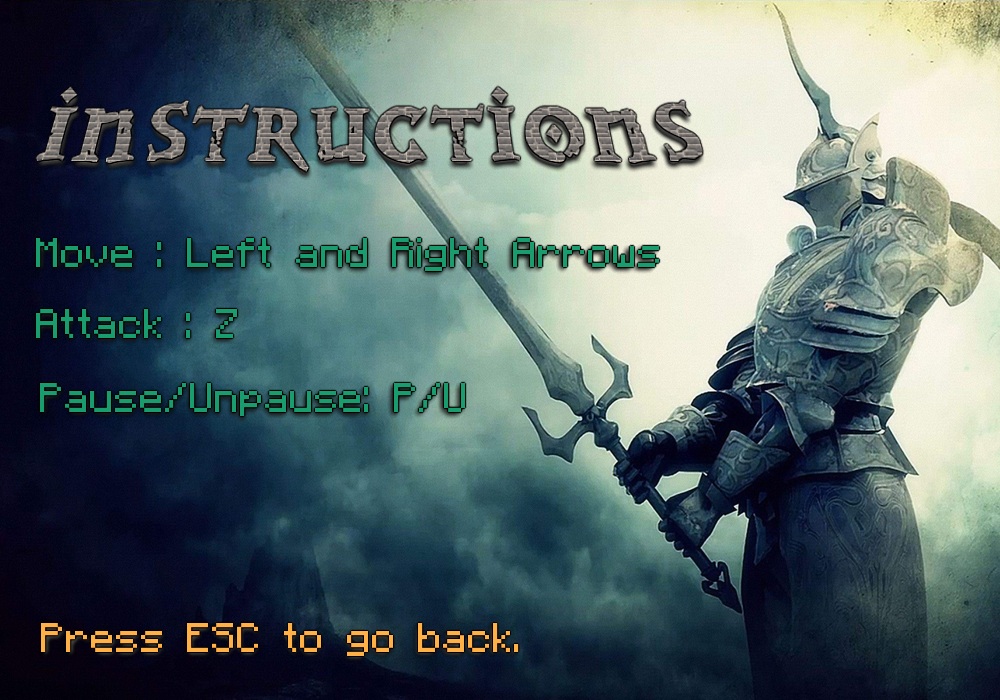
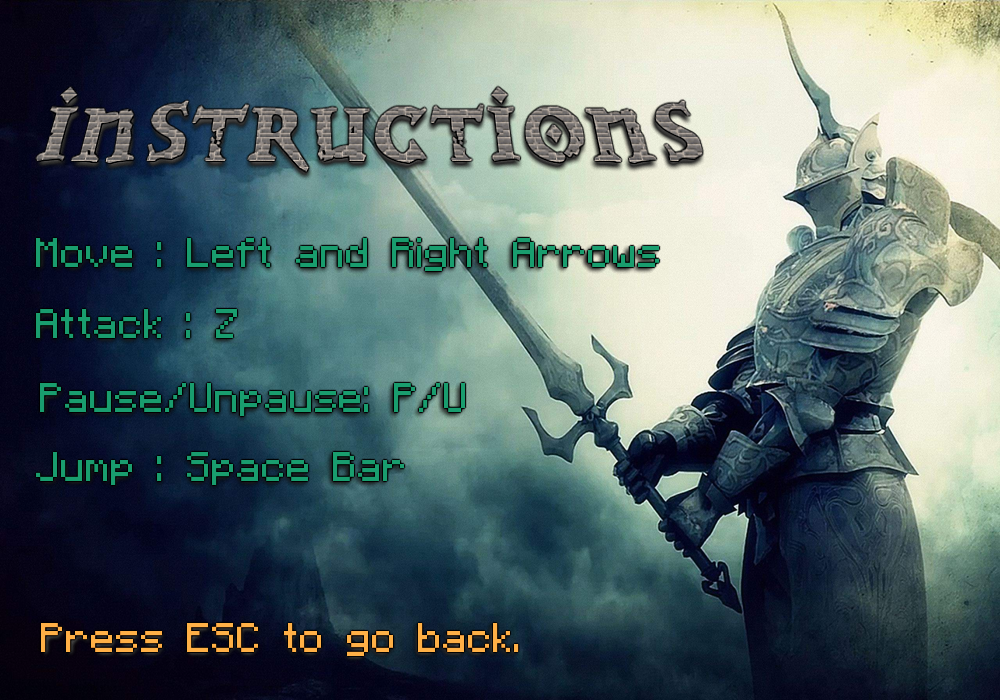
Added death anim for enemies and other small things
- Death animation for enemies
- Tab icon
- 250ms delay between knight attacks
- Jump to instructions page
- Final time lasted after death on game over screen

Changed region(s): [[0.031, 0.63, 0.403, 0.69]]

diff --git a/main.js b/main.js
@@ -40,6 +40,9 @@ pause.src = "images/pause.png";
 var isOnInstr = false;
 //game over
 var isGameover = false;
+// final time and final score
+var finalTime = 0;
+var finalScore = 0;
 
 
 var death = { //seperate object made for death for reusability of the animation
@@ -78,6 +81,7 @@ var knight = {
     midAir: false,
     jumping: false,
     isAttacking: false,
+    lastAttack: 250,
     attackTimer: 0,
     attackFrame: 0,
     attackNumFrames: 5,
@@ -113,6 +117,7 @@ var knight = {
 
         // 	ATTACKING ANIMATION **************************************************************************
         // Update hero animation
+        this.lastAttack += elapsed;
         if (this.isAttacking) {
             //walking===true so animation continues to completion of current cycle
             //so that frame isn't frozen midcycle by still condition
@@ -125,6 +130,7 @@ var knight = {
                 if (this.attackFrame >= this.attackNumFrames) {
                     // We've reached the end of the animation frames; rewind
                     this.attackFrame = 0;
+                    this.lastAttack = 0;
                     this.isAttacking = false;
                 }
             }
@@ -133,8 +139,9 @@ var knight = {
             for (var i = 0; i < enemies.length; i++) {
                 if (enemies[i].alive) {
                     var distance = enemies[i].x - this.x;
-                    if (-36 < distance && distance < 65) {
-                        enemies[i].alive = false;
+                    if (-36 < distance && distance < 65 && enemies[i].health>0) {
+                        // only deduct enemy health if in range and if enemy health isn't 0
+                        enemies[i].health -= 1;
                     }
                 }
             }
@@ -154,7 +161,6 @@ var knight = {
         if (this.health === 0) {
             death.timer += elapsed;
             if (death.timer >= this.animDelay) {
-                console.log(death.deathFrame);
                 // Enough time has passed to update the animation frame
                 death.timer = 0; // Reset the animation timer
                 ++death.deathFrame;
@@ -162,6 +168,7 @@ var knight = {
                 if (death.deathFrame >= death.numFrames) {
                     // We've reached the end of the animation frames; rewind
                     this.isAlive = false;
+                    death.deathFrame = 0;
                 }
             }
         }
@@ -229,7 +236,6 @@ var knight = {
         }
 
         if (this.imageReady) {
-            //console.log(this.midAir);
             var spriteX, effectiveX = this.x,
                 effectiveWidth = this.width;
             if (this.isHurt) {
@@ -352,9 +358,26 @@ var enemy = {
     update: function (elapsed) {
         var distanceBetween = this.x - knight.x;
         this.lastAttack += elapsed;
+        // ENEMY DEATH ANIMATION *************************************************************************************
+        if (this.health === 0) { 
+            death.timer += elapsed;
+            if (death.timer >= this.animDelay) {
+                // Enough time has passed to update the animation frame
+                death.timer = 0; // Reset the animation timer
+                ++death.deathFrame;
+
+                if (death.deathFrame >= death.numFrames) {
+                    // We've reached the end of the animation frames; rewind
+                    this.alive = false;
+                    death.deathFrame = 0;   
+                }
+            }
+        }
+
+        // ENEMY MOVEMENT *********************************************************************************************
         //If it > -35 that means that this enemy is being drawn next to the knight on the left
         //If it < 64 that means that this enemy is being drawn next to the kniht on the right
-        if (distanceBetween < -35 || distanceBetween > 64) { //If not in attacking range then move closer
+        else if (distanceBetween < -35 || distanceBetween > 64) { //If not in attacking range then move closer
             this.inAttackingRange = false;
             this.walkTimer += elapsed;
             if (this.walkTimer >= this.animDelay) {
@@ -377,6 +400,7 @@ var enemy = {
                 this.x -= distance;
                 this.walkSet = 1;
             }
+        // ENEMY ATTACK *************************************************************************************************
         } else {
             this.walkFrame = 0; //If close enough set the frame to the beginning
             this.inAttackingRange = true;
@@ -387,7 +411,7 @@ var enemy = {
                     this.attackTimer = 0;
                     this.attackFrame++;
 
-                    if (this.attackFrame >= this.attackNumFrames) { //Reset to the beginning frame
+                    if (this.attackFrame >= this.attackNumFrames && knight.health > 0) { //Reset to the beginning frame
                         this.attackFrame = 0;
                         knight.health -= 1;
                         knight.isHurt = true;
@@ -400,13 +424,24 @@ var enemy = {
     },
     draw: function (context) {
         if (this.imageReady) {
-            var spriteX;
-            if (!this.inAttackingRange || !knight.onGround)
-                spriteX = (this.walkSet * (this.width * this.walkNumFrames)) + (this.walkFrame * this.width);
-            else
-                spriteX = (2 * this.walkNumFrames * this.width) + (this.attackSet * 70) + (this.attackFrame * this.width);
+            if (this.health > 0){ // if enemy is alive
+                var spriteX;
+                if (!this.inAttackingRange || !knight.onGround)
+                    spriteX = (this.walkSet * (this.width * this.walkNumFrames)) + (this.walkFrame * this.width);
+                else
+                    spriteX = (2 * this.walkNumFrames * this.width) + (this.attackSet * 70) + (this.attackFrame * this.width);
 
-            context.drawImage(this.image, spriteX, 0, this.width, this.height, this.x, this.y, this.width, this.height);
+                context.drawImage(this.image, spriteX, 0, this.width, this.height, this.x, this.y, this.width, this.height);
+            }
+            else if (this.health === 0) { // if enemy health = 0 so death animation
+                spriteX = (64 * death.deathFrame);
+
+                context.drawImage(
+                    death.image,
+                    spriteX, 0, 64, 64,
+                    this.x, this.y, this.width, this.height
+                );
+            } 
         } else {
             context.fillStyle = "green";
             context.fillRect(this.x, this.y, this.width, this.height);
@@ -439,11 +474,8 @@ var boss = {
     lastAttack: 500,
     update: function (elapsed) {
         if (knight.x > this.x) {
-            //console.log("Knight is on the right");
             this.x += Math.round(this.speed * (elapsed / 1000));
-            console.log(knight.x, this.x)
         } else if (knight.x < this.x) { //knight.x < this.x
-            //console.log("Knight is on the left");
             this.x -= Math.round(this.speed * (elapsed / 1000));
         }
         var distance = Math.abs(this.x - knight.x);
@@ -495,9 +527,9 @@ var handleInput = function () {
 
     }
 
-    if (90 in keysDown && knight.onGround) {
+    if (90 in keysDown && knight.onGround && knight.lastAttack>=250) {
         knight.isAttacking = true;
-        knight.still = false;
+        // knight.still = false;
     }
 
     if (80 in keysDown) { // P for pause
@@ -515,7 +547,10 @@ var handleInput = function () {
 
 var update = function (elapsed) {
 
+    var timerSeconds = (Math.floor(timer / 1000)); // must be declared before finalTime
+
     if (!knight.isAlive) {
+        finalTime = timerSeconds;
         isGameRunning = false; //knight dead so stop game
         isGameover = true;
 
@@ -545,7 +580,6 @@ var update = function (elapsed) {
 
     // TIMER FRAME UPDATE***********************************************************
 
-    var timerSeconds = (Math.floor(timer / 1000));
     var timerNumDigits = Math.ceil(Math.log(timerSeconds + 1) / Math.LN10); //to get the "length" of the timerSeconds variable
 
     // each digit value is stored in a separate variable of the timer object
@@ -582,12 +616,14 @@ var render = function () {
 
     // Timer image rendering
     ctx.font = "30px Impact";
+    ctx.fillStyle = "white";
     ctx.fillText(timerDigits.hundreds.toString(), (((canvas.width / 2) - 30)), 40);
     ctx.fillText(timerDigits.tens.toString(), (((canvas.width / 2) - 30) + 20), 40);
     ctx.fillText(timerDigits.ones.toString(), (((canvas.width / 2) - 30) + 40), 40);
 
     for (var i = 0; i < enemies.length; i++) {
-        if (enemies[i].alive) enemies[i].draw(ctx);
+        if (enemies[i].alive) 
+            enemies[i].draw(ctx);
     }
 
     if (boss.available) {
@@ -678,10 +714,15 @@ var pauseScreen = function () {
 
 function gameover() {
     var gameoverScreen = new Image();
+    console.log(finalTime);
 
     gameoverScreen.src = "images/gameover_test.png";
 
     ctx.drawImage(gameoverScreen, 0, 0, 1000, 700);
+    ctx.fillStyle = "black";
+    ctx.fillText("You Lasted ", ((canvas.width / 2) - 150), 50);
+    ctx.fillText(finalTime.toString(), (((canvas.width / 2) - 30) + 20), 50);
+    ctx.fillText(" Seconds", ((canvas.width / 2) + 20), 50);
 
     if (27 in keysDown) //Esc to go back to main menu
         isGameover = false; // enter the 'else' in order to bring up main menu

diff --git a/index.html b/index.html
@@ -4,6 +4,7 @@
 	<meta charset="UTF-8">
 	<title>NIGHT KNIGHT</title>
 	<link rel="stylesheet" href="main.css">
+	<link rel="shortcut icon" href="images/icon.ico">
 	<!-- <img src="images/night_knight.png" alt="title header"> -->
 </head>
 <body>
